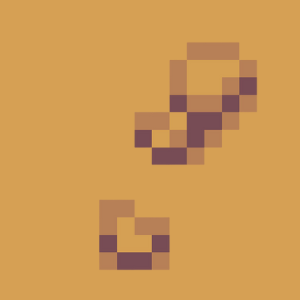
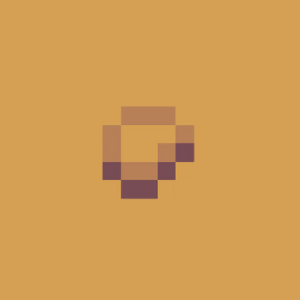
added cliff in dessert

Changed region(s): [[0.33, 0.12, 0.87, 0.9]]

diff --git a/src/Tile/TileManager.java b/src/Tile/TileManager.java
@@ -18,7 +18,7 @@ public class TileManager {
 
     public TileManager(GamePanel gp) {
         this.gp = gp;
-        tile = new Tile[95];
+        tile = new Tile[110];
         mapTileNum = new int/*[gp.maxMap]*/[gp.maxWorldCol][gp.maxWorldRow];
 
         getTileImage();
@@ -29,16 +29,18 @@ public class TileManager {
     public void getTileImage() {
 
         //PLACEHOLDER//
-        setup(0, "grass00", false);
-        setup(1, "grass00", false);
-        setup(2, "grass00", false);
-        setup(3, "grass00", false);
-        setup(4, "grass00", false);
-        setup(5, "grass00", false);
-        setup(6, "grass00", false);
-        setup(7, "grass00", false);
-        setup(8, "grass00", false);
+
+        setup(0, "cliff0", true);
+        setup(1, "cliff1", true);
+        setup(2, "cliff2", true);
+        setup(3, "cliff3", true);
+        setup(4, "cliff4", true);
+        setup(5, "cliff5", true);
+        setup(6, "cliff6", false);
+        setup(7, "cliff7", false);
+        setup(8, "cliff8", false);
         setup(9, "grass00", false);
+
         //PLACEHOLDER//
         setup(10, "grass00", false);
         setup(11, "grass01", false);
@@ -124,6 +126,11 @@ public class TileManager {
         setup(90, "watery75", true);
         setup(91, "watery76", true);
         setup(92, "bridge00", false);
+        setup(93, "cliff93", true);
+        setup(94, "cliff94", true);
+        setup(95, "cliff95", true);
+        setup(96, "cliff96", true);
+        setup(97, "cliff97", true);
 
     }
     public void setup(int index, String imageName, boolean collision) {
